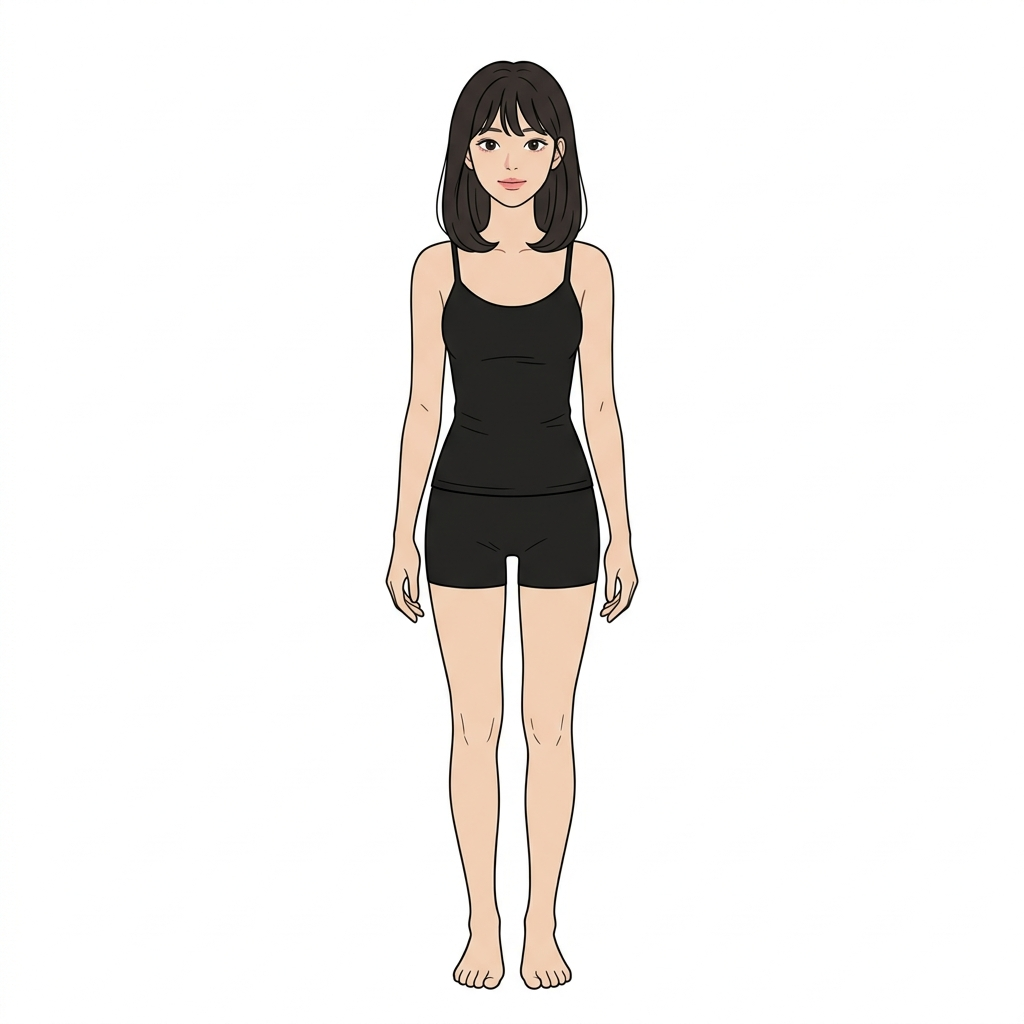
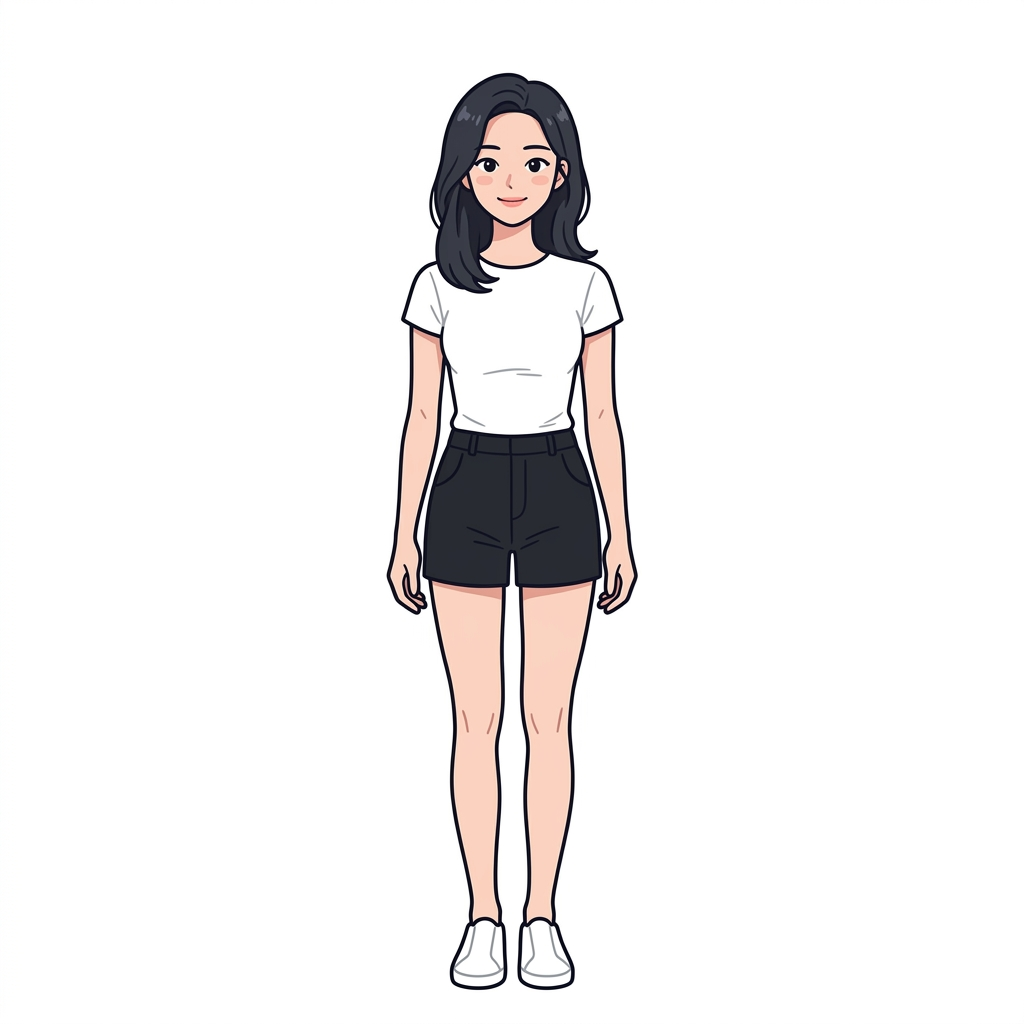
feat: 3단계 건전한 아바타 교체 및 물리적 스티커 드래그앤드롭 로직 구현

Changed region(s): [[0.375, 0.0625, 0.625, 0.9688]]

diff --git a/app.js b/app.js
@@ -941,10 +941,18 @@ function startScreen4() {
         let selectedItems = {}; // { color: '쿨톤', line: '세로선', ... }
         
         draggables.forEach(item => {
+            // 원본 부모 요소 저장 (다시 돌려놓기 위해)
+            if (!item.dataset.originalParent) {
+                item.dataset.originalParent = item.parentElement.className; // 'shelf-items'
+            }
+            
             item.addEventListener('dragstart', (e) => {
                 item.classList.add('dragging');
                 e.dataTransfer.setData('category', item.getAttribute('data-category'));
                 e.dataTransfer.setData('val', item.getAttribute('data-val'));
+                // 아이템의 DOM ID나 참조를 전달하기 위해 고유 ID 부여
+                if (!item.id) item.id = 'item-' + Date.now() + Math.floor(Math.random()*1000);
+                e.dataTransfer.setData('itemId', item.id);
             });
             item.addEventListener('dragend', () => {
                 item.classList.remove('dragging');
@@ -966,8 +974,32 @@ function startScreen4() {
             
             const category = e.dataTransfer.getData('category');
             const val = e.dataTransfer.getData('val');
+            const itemId = e.dataTransfer.getData('itemId');
             
-            if (!category || !val) return;
+            if (!category || !val || !itemId) return;
+            
+            const draggedItem = document.getElementById(itemId);
+            if (!draggedItem) return;
+            
+            // 기존에 해당 슬롯에 있던 아이템은 다시 옷장으로 돌려보냄
+            const targetSlot = document.getElementById(`slot-${category}`);
+            if (targetSlot.children.length > 0) {
+                const oldItem = targetSlot.children[0];
+                // 옷장의 원래 카테고리 선반 찾기
+                const shelves = document.querySelectorAll('.shelf-items');
+                // 같은 카테고리를 가진 첫번째 아이템이 있는 선반에 넣거나, 그냥 부모를 찾아 넣어야 하는데 
+                // 안전하게 카테고리 라벨로 찾기
+                let targetShelf = Array.from(shelves).find(s => s.querySelector(`[data-category="${category}"]`));
+                if (!targetShelf && draggedItem.parentElement.classList.contains('shelf-items')) {
+                    targetShelf = draggedItem.parentElement; // 방금 드래그해온 곳
+                }
+                if (targetShelf) {
+                    targetShelf.appendChild(oldItem);
+                }
+            }
+            
+            // 새 아이템을 슬롯에 부착 (물리적 이동)
+            targetSlot.appendChild(draggedItem);
             
             // 기존 오버레이 클래스 제거
             const overlayDiv = document.getElementById(`overlay-${category}`);
@@ -975,7 +1007,7 @@ function startScreen4() {
                 overlayDiv.classList.remove(`overlay-${category}-${selectedItems[category]}`);
             }
             
-            // 새 오버레이 클래스 추가 (옷 갈아입기 효과)
+            // 새 오버레이 클래스 추가 (옷 갈아입기 마법 효과)
             overlayDiv.classList.add(`overlay-${category}-${val}`);
             
             // 상태 저장

diff --git a/index.html b/index.html
@@ -416,6 +416,12 @@
                                     <div id="overlay-temp" class="mannequin-overlay"></div>
                                     <div id="overlay-pattern" class="mannequin-overlay"></div>
                                     
+                                    <!-- 실제 아이템 카드가 부착될 스티커 슬롯 -->
+                                    <div class="avatar-slot" id="slot-color" data-accept="color" style="top: 10%;"></div>
+                                    <div class="avatar-slot" id="slot-line" data-accept="line" style="top: 30%;"></div>
+                                    <div class="avatar-slot" id="slot-pattern" data-accept="pattern" style="top: 50%;"></div>
+                                    <div class="avatar-slot" id="slot-temp" data-accept="temp" style="top: 70%;"></div>
+                                    
                                     <div style="position: absolute; bottom: -10px; width: 100%; text-align: center;">
                                         <div style="background: rgba(255,255,255,0.9); padding: 0.5rem 1rem; display: inline-block; border-radius: 20px; border: 2px solid #8b5a2b; color: #5a3a1b; font-size: 0.9rem; font-weight: bold; box-shadow: 0 2px 5px rgba(0,0,0,0.2);">오지수 모델 핏</div>
                                     </div>

diff --git a/style.css b/style.css
@@ -212,6 +212,34 @@ body {
     font-size: 1rem;
 }
 
+.avatar-slot {
+    position: absolute;
+    left: 50%;
+    transform: translateX(-50%);
+    width: 60%;
+    min-height: 40px;
+    border: 2px dashed rgba(255, 255, 255, 0.4);
+    border-radius: 8px;
+    z-index: 15;
+    display: flex;
+    align-items: center;
+    justify-content: center;
+    transition: all 0.3s ease;
+}
+
+.avatar-slot .paperdoll-item {
+    width: 100%;
+    margin: 0;
+    box-shadow: 0 4px 8px rgba(0,0,0,0.4);
+    border-color: #ff0055;
+    animation: popIn 0.3s cubic-bezier(0.175, 0.885, 0.32, 1.275);
+}
+
+@keyframes popIn {
+    0% { transform: scale(0.5); opacity: 0; }
+    100% { transform: scale(1); opacity: 1; }
+}
+
 /* ==================================
    Mannequin Visual Overlays
 ================================== */
